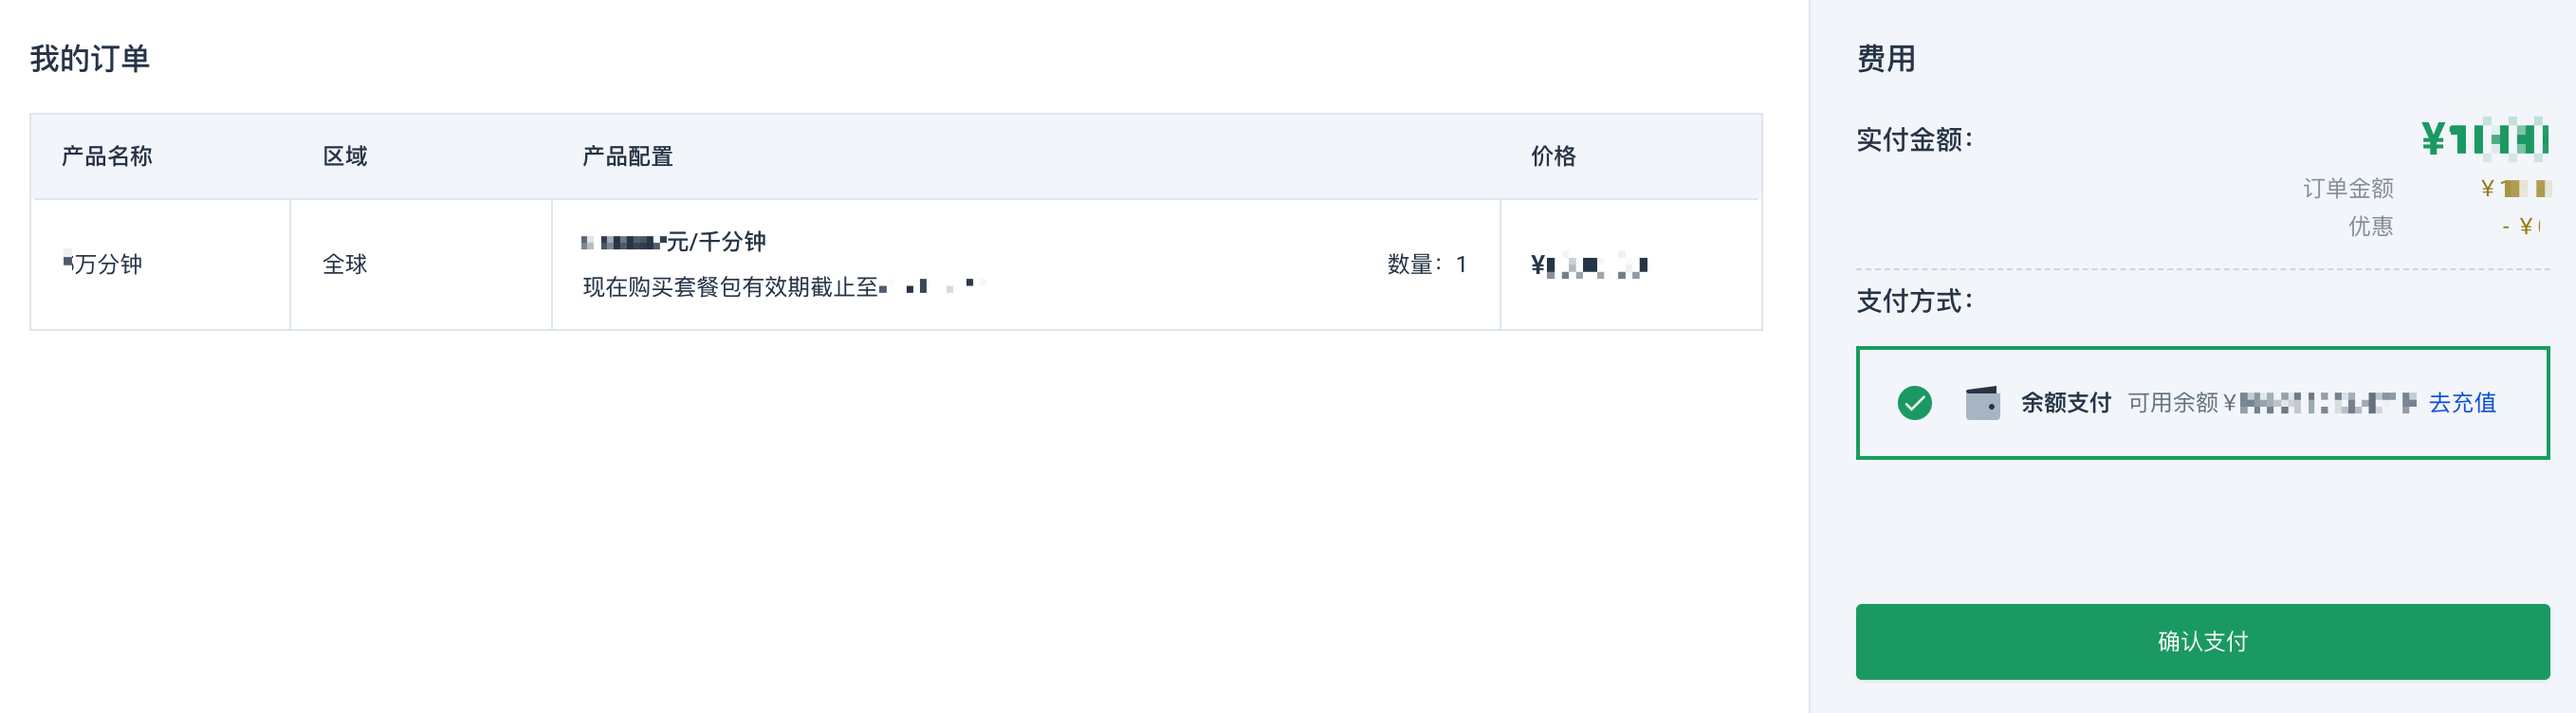
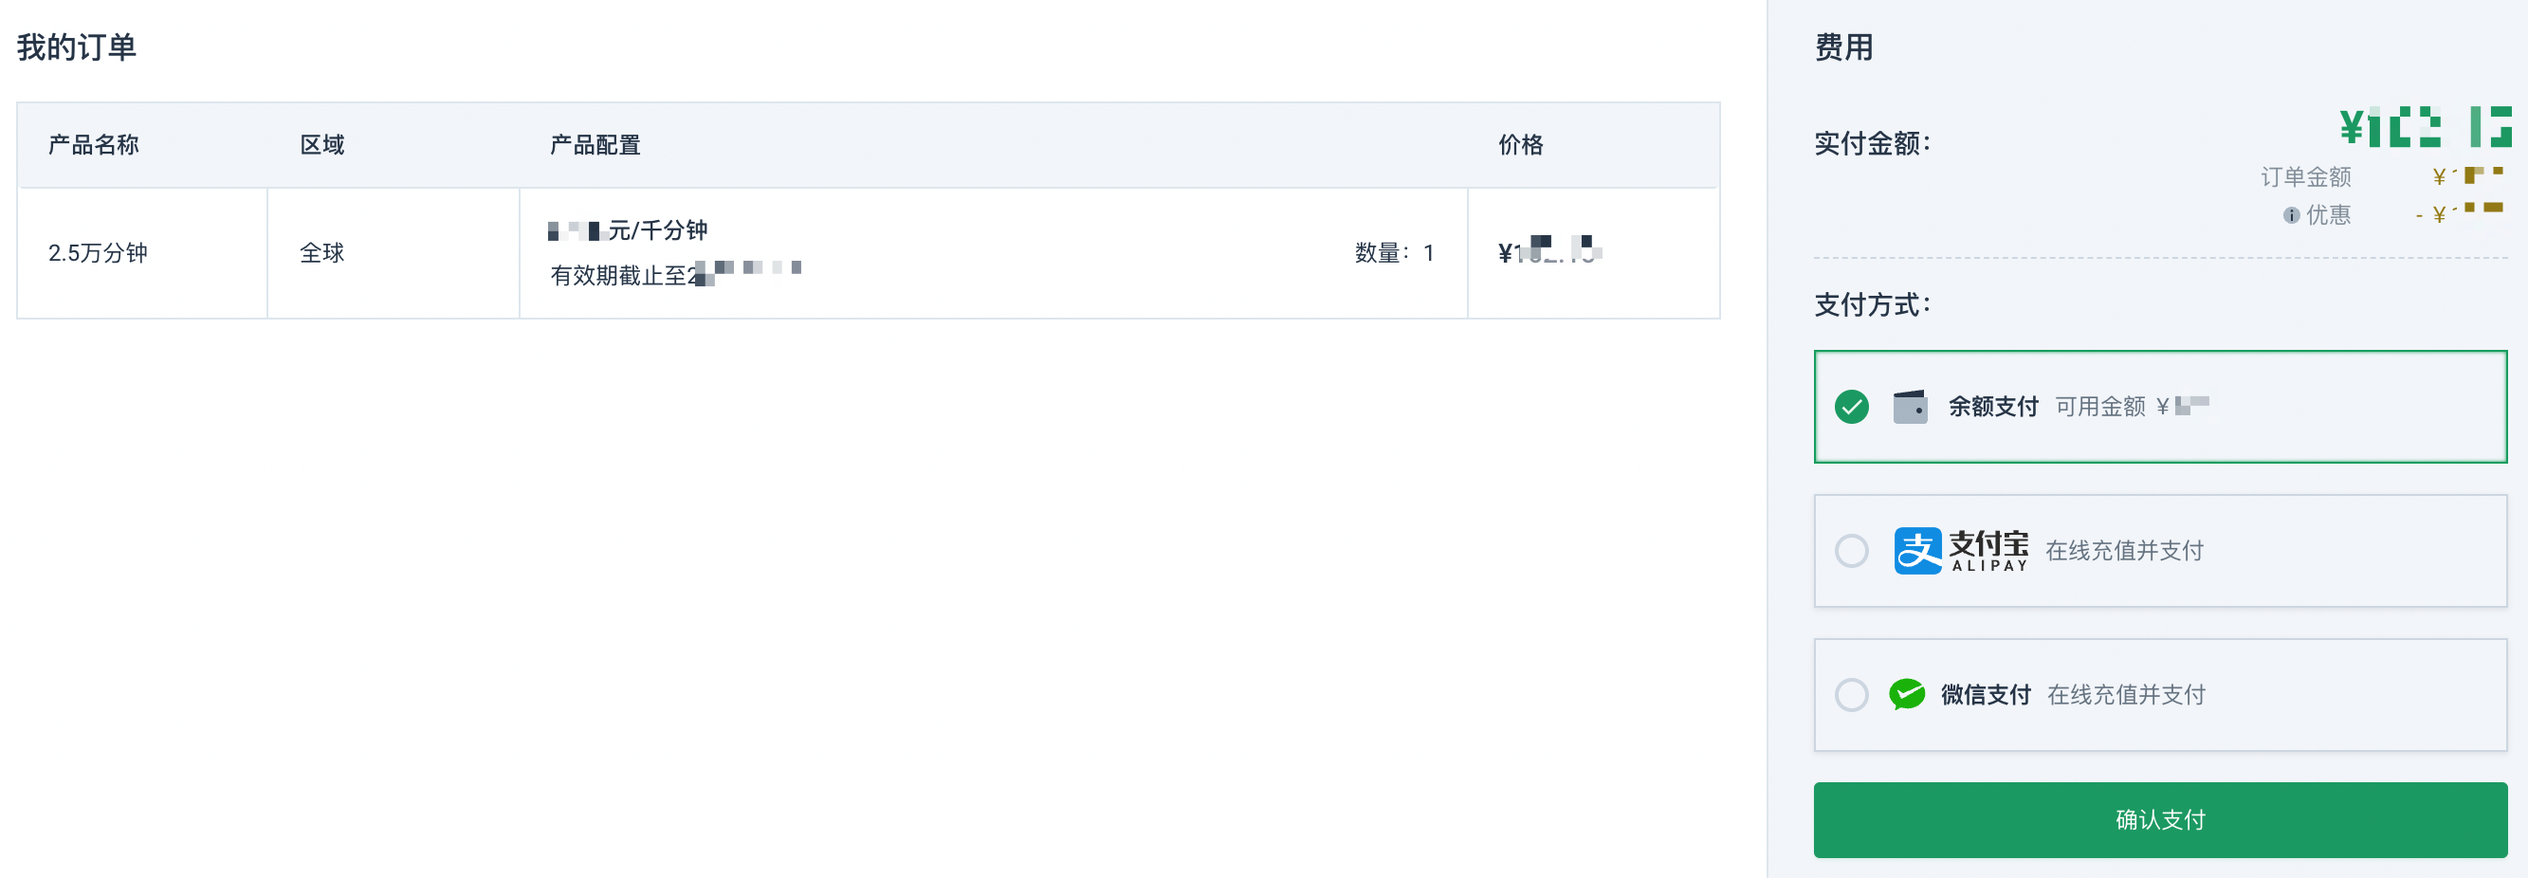
rtc: add the experience link description

diff --git a/content/audio_and_video/rtc/qs/10_qs_rtc.md b/content/audio_and_video/rtc/qs/10_qs_rtc.md
@@ -111,23 +111,35 @@ weight: 10
 
 3. 点击 **joinChannel()**，加入频道。
 
-## 步骤六：离开频道
+   加入频道后，您可以将链接分享给好友，邀请好友一起试用。
 
-加入频道后，您可以将链接分享给好友，邀请好友一起试用。
+4. 点击**复制链接**，将链接复制成功后，分享给您的好友。
 
-1. 加入频道后，点击**复制链接**，将链接复制成功后，分享给您的好友。
+   > **说明：**
+   >
+   > 实时音视频 Demo 支持 PC 端和移动端体验音视频通信，您可以将该体验链接发送给任意 PC 端或移动端设备。
 
    ![](../../_images/qs_copy_link.png)
 
-2. 好友打开分享的链接，即可加入频道。
+   好友打开分享的链接，加入频道后，即可成功通信。
 
-   加入频道后，即可成功进行通话。
+   #### **PC 端**
 
    <img src="../../_images/qs_open_link.png" style="zoom:40%;" />
 
-3. 若通话结束，点击 **leaveChannel()**，即可离开频道。
+   #### **移动端**
 
-   ![](../../_images/qs_leave_channel.png)
+   <img src="../../_images/um_demo_mobile.png" style="zoom:40%;" />
+
+## 步骤六：离开频道
+
+- 若通话结束，您可以在页面右下角，点击 **leaveChannel()**，即可离开频道。
+
+  ![](../../_images/qs_leave_channel.png)
+
+- 通过体验链接加入的音视频通信的好友，可点击**离开频道**，离开频道。
+
+  <img src="../../_images/um_leave_demo.png" style="zoom:40%;" />
 
 
 

diff --git a/content/audio_and_video/rtc/news/product_news.md b/content/audio_and_video/rtc/news/product_news.md
@@ -6,14 +6,14 @@ product:
     - time: 2021-10-13
       title: 支持微信&支付宝购买资源包
       content: 多用途资源包（互动通信、旁路推流、云录制）可使用微信&支付宝进行扫码支付，轻松便捷是您更方便购买产品资源用量。
-      url: /audio_and_video/rtc/intro/10_rtc
+      url: /audio_and_video/rtc/usermanual/10_purchase
       tags:
       - 新功能
 
     - time: 2021-10-12
       title: 新手体验适配移动端
       content: 控制台发起的实时音视频体验链接，您可以发送给任意移动端设备，通过移动端体验音视频通信。
-      url: /audio_and_video/rtc/intro/10_rtc
+      url: /audio_and_video/rtc/qs/10_qs_rtc
       tags:
       - 体验优化
       

diff --git a/content/audio_and_video/rtc/usermanual/10_purchase.md b/content/audio_and_video/rtc/usermanual/10_purchase.md
@@ -70,11 +70,11 @@ weight: 10
 
    ![](../../_images/um_purchase_confirm.png)
 
-7. 确认订单无误后，选择**支付方式**为**余额支付**。
+7. 确认订单无误后，选择**支付方式**为**余额支付**、**支付宝**或者**微信支付**。
 
    > **说明：**
    >
-   > 若余额不足，请点击**去充值**，进行充值。
+   > 选择**余额支付**时，若余额不足，请点击**去充值**，进行充值。
 
 8. 点击**确认支付**，根据界面提示支付订单。
 

diff --git a/content/audio_and_video/rtc/_index.md b/content/audio_and_video/rtc/_index.md
@@ -12,6 +12,10 @@ section1:
 section2:
   title: 用户指南
   children:
+    - title: 动态与公告
+      content: 产品动态
+      url: "/audio_and_video/rtc/news/product_news"
+
     - title: 产品简介
       content: 本节介绍什么是实时音视频 RTC。
       url: "/audio_and_video/rtc/intro/10_rtc"
